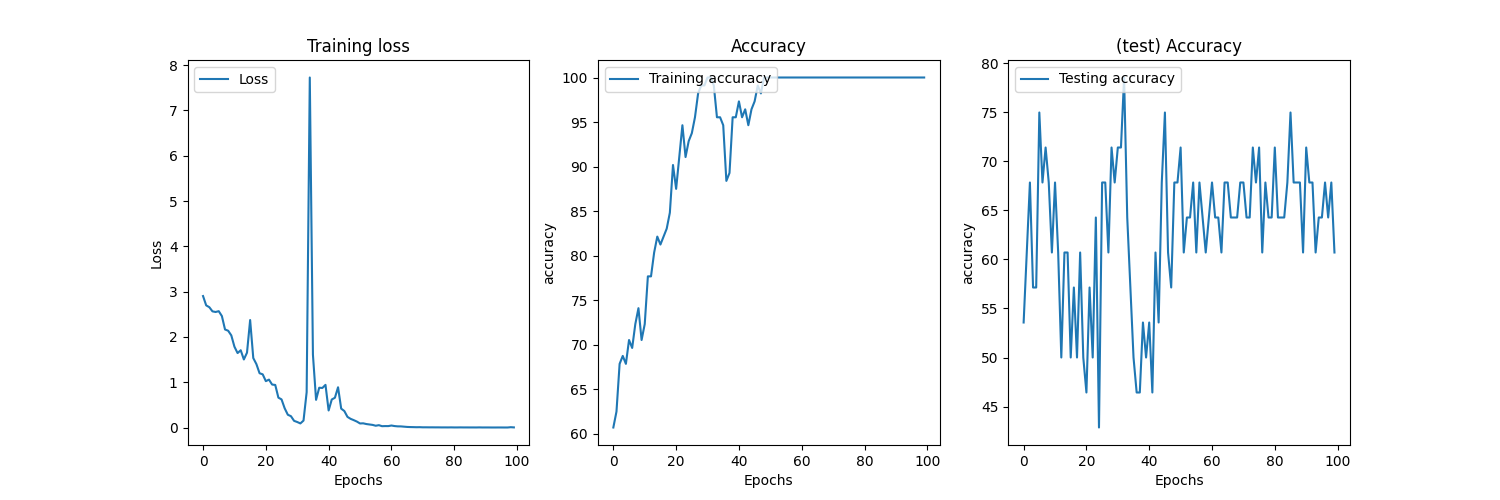
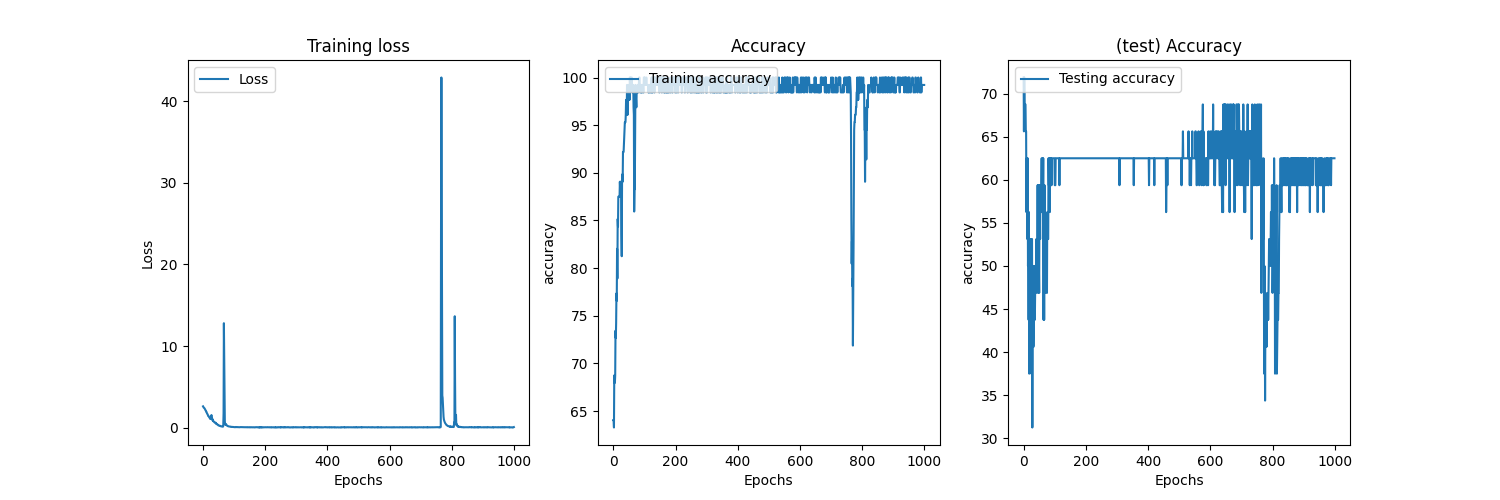
more ranking models

diff --git a/shared-library/src/optimization_playground_shared/embedding_test/model_1.py b/shared-library/src/optimization_playground_shared/embedding_test/model_1.py
@@ -2,9 +2,31 @@ import torch
 import torch.nn as nn
 import torch.optim as optim
 from ..apis.url_to_text import get_url_documents
-from sklearn.feature_extraction.text import CountVectorizer
 from ..nlp.DocumentEncoderSequence import SimpleVocab, get_document_dataset
 import os
+
+import torch
+import torch.nn.functional as F
+
+class SimpleContrastiveLoss(torch.nn.Module):
+    def __init__(self, temperature=0.1, epsilon=1e-6):
+        super(SimpleContrastiveLoss, self).__init__()
+        self.temperature = temperature
+        self.epsilon = epsilon
+
+    def forward(self, embeddings):
+        embeddings = F.normalize(embeddings, p=2, dim=1)
+        similarity_matrix = torch.matmul(embeddings, embeddings.T) / self.temperature
+        positives = torch.diagonal(similarity_matrix)
+
+        mask = torch.eye(similarity_matrix.size(0), device=similarity_matrix.device).bool()
+        negatives = similarity_matrix.masked_fill(mask, float('-inf'))
+        negatives = torch.logsumexp(negatives, dim=1)
+
+        # Todo: figure out why things turn negative
+        loss = (negatives -positives).abs()
+
+        return loss.mean()
 
 class SimpleEmbeddingModel(nn.Module):
     def __init__(self, vocab_size, embed_dim):
@@ -13,9 +35,11 @@ class SimpleEmbeddingModel(nn.Module):
         self.embed_dim = embed_dim
         self.embedding = nn.Embedding(vocab_size, embed_dim)
         self.fc = nn.Sequential(*[
-             nn.Linear(embed_dim, 512),
+             nn.Linear(embed_dim, 1024),
              nn.ReLU(),
-             nn.Linear(512, 1024),
+             nn.Linear(1024, 2048),
+             nn.ReLU(),
+             nn.Linear(2048, 1024),
              nn.ReLU(),
              nn.Linear(1024, 512),
 #             nn.ReLU(),
@@ -32,9 +56,9 @@ class EmbeddingModelOne:
         self.model = None
 
     def loss_contrastive(self, logits):
+        # return SimpleContrastiveLoss().forward(logits)
         labels = torch.arange(logits.shape[0])
         l_row = torch.nn.CrossEntropyLoss()(logits, labels)
-
         return l_row
 
     def train(self, docs):

diff --git a/applied/rlhf-ranking/ranknet.py b/applied/rlhf-ranking/ranknet.py
@@ -14,7 +14,6 @@ from dataset_creator_list.embedding_backend import EmbeddingBackend
 class Model(nn.Module):
     def __init__(self, embeddings_size) -> None:
         super().__init__()
-
         self.base_layers = nn.Sequential(*[
             nn.Linear(embeddings_size, 2048),
             nn.ReLU(),
@@ -53,15 +52,17 @@ class Model(nn.Module):
         }, self.model_file)
     
     def load(self):
-        state = torch.load(self.model_file)
+        state = torch.load(self.model_file, weights_only=True)
         self.load_state_dict(state["model_state"])
         return self
 
 if __name__ == "__main__":
     batch_size = 32
+    epochs = 1_000
+
     embedding_backend = EmbeddingBackend()
     model = Model(embeddings_size=embedding_backend.embedding_size())
-    optimizer = torch.optim.Adam(model.parameters())
+    optimizer = torch.optim.Adam(model.parameters(), lr=1e-4)
     train_dataset = DocumentRankDataset(train=True, embedding_backend=embedding_backend.backend, dataset_format="binary")
     train_loader = DataLoader(train_dataset, batch_size=batch_size, shuffle=True)
 
@@ -73,7 +74,7 @@ if __name__ == "__main__":
     epoch_accuracy = []
     epoch_loss = []
     epoch_test_accuracy = []
-    iterator = tqdm(range(1_00))
+    iterator = tqdm(range(epochs))
     for _ in iterator:
         sum_accuracy = torch.tensor(0.0)
         sum_loss = torch.tensor(0.0)

diff --git a/shared-library/src/optimization_playground_shared/apis/url_to_text.py b/shared-library/src/optimization_playground_shared/apis/url_to_text.py
@@ -45,13 +45,15 @@ def get_cache(url):
     )
     return path
 
-def get_text(url):
+def get_text(url, cache_only=False):
     cache_path = get_cache(url)
     if os.path.isfile(cache_path):
         with open(cache_path, "r") as file:
             content = file.read()
             if len(content) > 0:
                 return content
+    if cache_only:
+        return None
     id = _get_id(url)
     text = _get_text(id)
     if text is None or len(text) < 100:
@@ -60,14 +62,17 @@ def get_text(url):
         file.write(text)
     return text
 
-def get_url_documents():
-    url = os.environ["url_to_text_host"] + f"/api/links/1/0"
-    items = requests.get(
-        url, 
-        cookies={
-            "credentials": os.environ["auth_header"]
-        }
-    ).json()
-    return [
-        get_text(i["url"]) for i in items
-    ]
+def get_url_documents(pages=5):
+    documents = []
+    for page in range(pages):
+        url = os.environ["url_to_text_host"] + f"/api/links/1/{page}"
+        items = requests.get(
+            url, 
+            cookies={
+                "credentials": os.environ["auth_header"]
+            }
+        ).json()
+        documents += [
+            get_text(i["url"]) for i in items
+        ]
+    return documents

diff --git a/applied/rlhf-ranking/semi_supervised_machine.py b/applied/rlhf-ranking/semi_supervised_machine.py
@@ -26,6 +26,10 @@ class RankingModel:
 class SemiSupervisedMachine:
     def __init__(self) -> None:
         self.embeddings = EmbeddingBackend()
+        self.models = []
+
+    def load_model(self):
+        assert len(self.models) == 0
         self.models: List[RankingModel] = [
             RanknetModel(embeddings_size=self.embeddings.embedding_size()).load().eval(),
             ListnetModel(embeddings_size=self.embeddings.embedding_size()).load().eval(),
@@ -34,6 +38,7 @@ class SemiSupervisedMachine:
         ]
     
     def rank_documents(self, items):
+        assert len(self.models) > 0, "You need to load in the models first"
         documents = []
         is_raw_input = False
         for _, doc in enumerate(items):
@@ -90,4 +95,5 @@ def rank_documents():
     return jsonify(list(map(lambda x: x, results)))
 
 if __name__ == "__main__":
+    models.load_model()
     app.run(port=4232)

diff --git a/applied/rlhf-ranking/dataset_creator_list/create_embedings_dataset.py b/applied/rlhf-ranking/dataset_creator_list/create_embedings_dataset.py
@@ -28,7 +28,7 @@ def build():
                 #item_id = i["id"]
                 url = i["url"]
                 item_score = i.get("score", len(data) - index)
-                item_text = get_text(url)
+                item_text = get_text(url, cache_only=True)
                 if item_text is None:
                     break
                 batch_text.append(item_text)
@@ -43,7 +43,8 @@ def build():
     # Train model
     if hasattr(model.transformer, "train"):
         # load on the input documents + some extra for good measure.
-        extra_documents = get_url_documents()
+        # tbh. we maybe should do this for all cases ... 
+        extra_documents = get_url_documents(pages=10)
         extra_documents += flatten_text
         model.transformer.train(extra_documents)
 

diff --git a/applied/rlhf-ranking/run_rankmodel.py b/applied/rlhf-ranking/run_rankmodel.py
@@ -1,9 +1,11 @@
 """
 Web interface for running a ranker model.
 """
+from dotenv import load_dotenv
+load_dotenv()
+
 from flask import Flask, request
 import os
-from dotenv import load_dotenv
 from ranknet import Model
 from semi_supervised_machine import Input
 import torch
@@ -12,13 +14,11 @@ from dataset_creator_list.embedding_backend import EmbeddingBackend
 results_dirname = "results"
 os.makedirs(results_dirname, exist_ok=True)
 
-load_dotenv()
-
 app = Flask(__name__)
 
-embeddings = EmbeddingBackend()
+embeddings = EmbeddingBackend().load()
 model = Model(
-    embeddings_size=1536,
+    embeddings_size=embeddings.embedding_size(),
 ).load()
 
 @app.route('/', methods=["POST"])

diff --git a/applied/rlhf-ranking/dataset_creator_list/embedding_backend.py b/applied/rlhf-ranking/dataset_creator_list/embedding_backend.py
@@ -34,6 +34,11 @@ class EmbeddingBackend:
             self._embedding_size = 512
         else:
             raise Exception(f"Unknown backend {backend}")
+        
+    def load(self):
+        if isinstance(self.transformer, EmbeddingModelOne):
+            self.transformer.load()        
+        return self
 
     def embedding_size(self):
         return self._embedding_size

diff --git a/applied/rlhf-ranking/listnet_list.py b/applied/rlhf-ranking/listnet_list.py
@@ -102,7 +102,7 @@ class Model(nn.Module):
         }, self.model_file)
     
     def load(self):
-        state = torch.load(self.model_file)
+        state = torch.load(self.model_file, weights_only=True)
         self.load_state_dict(state["model_state"])
         return self
     
